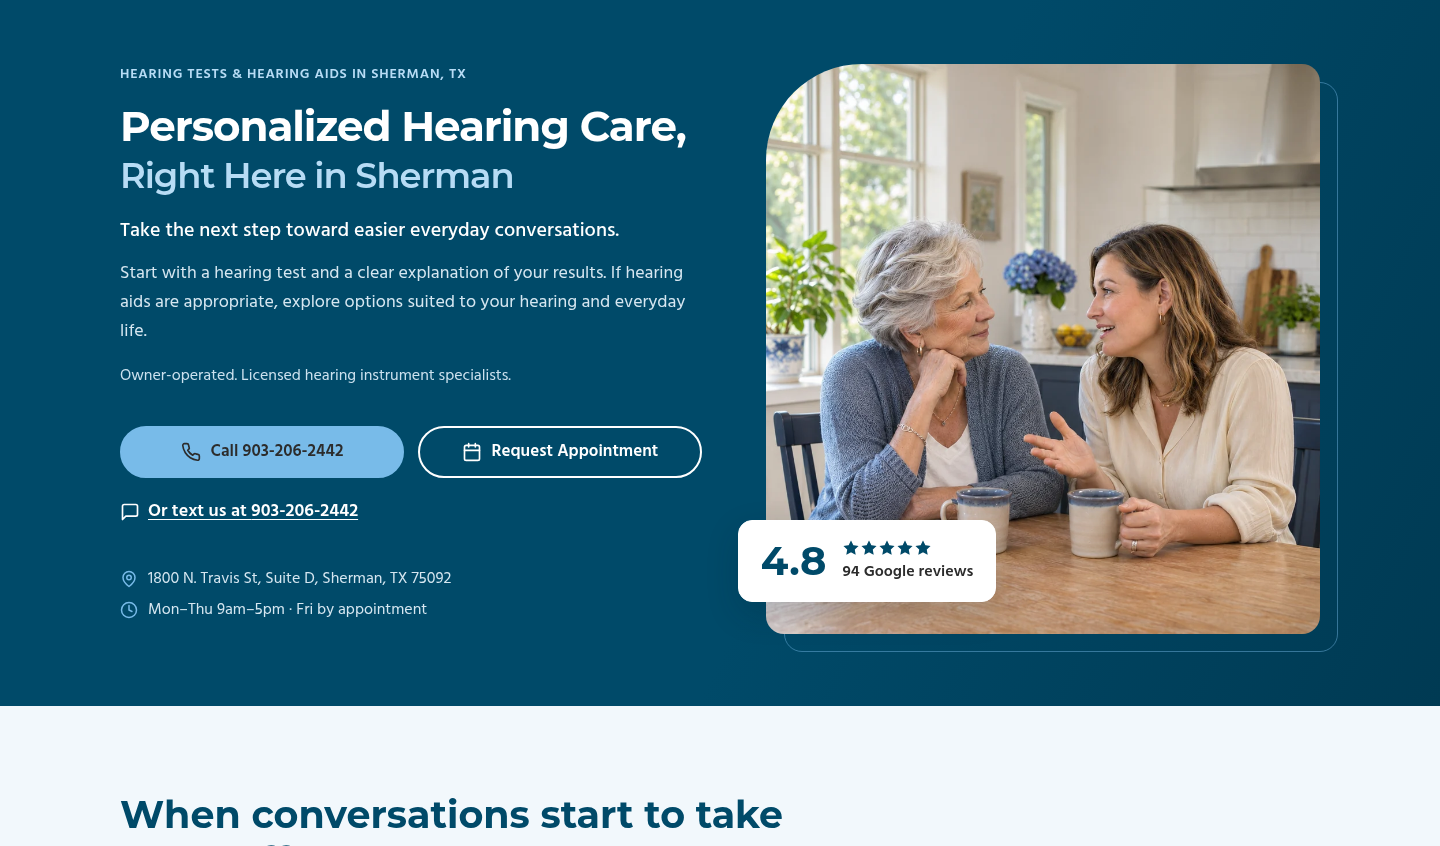
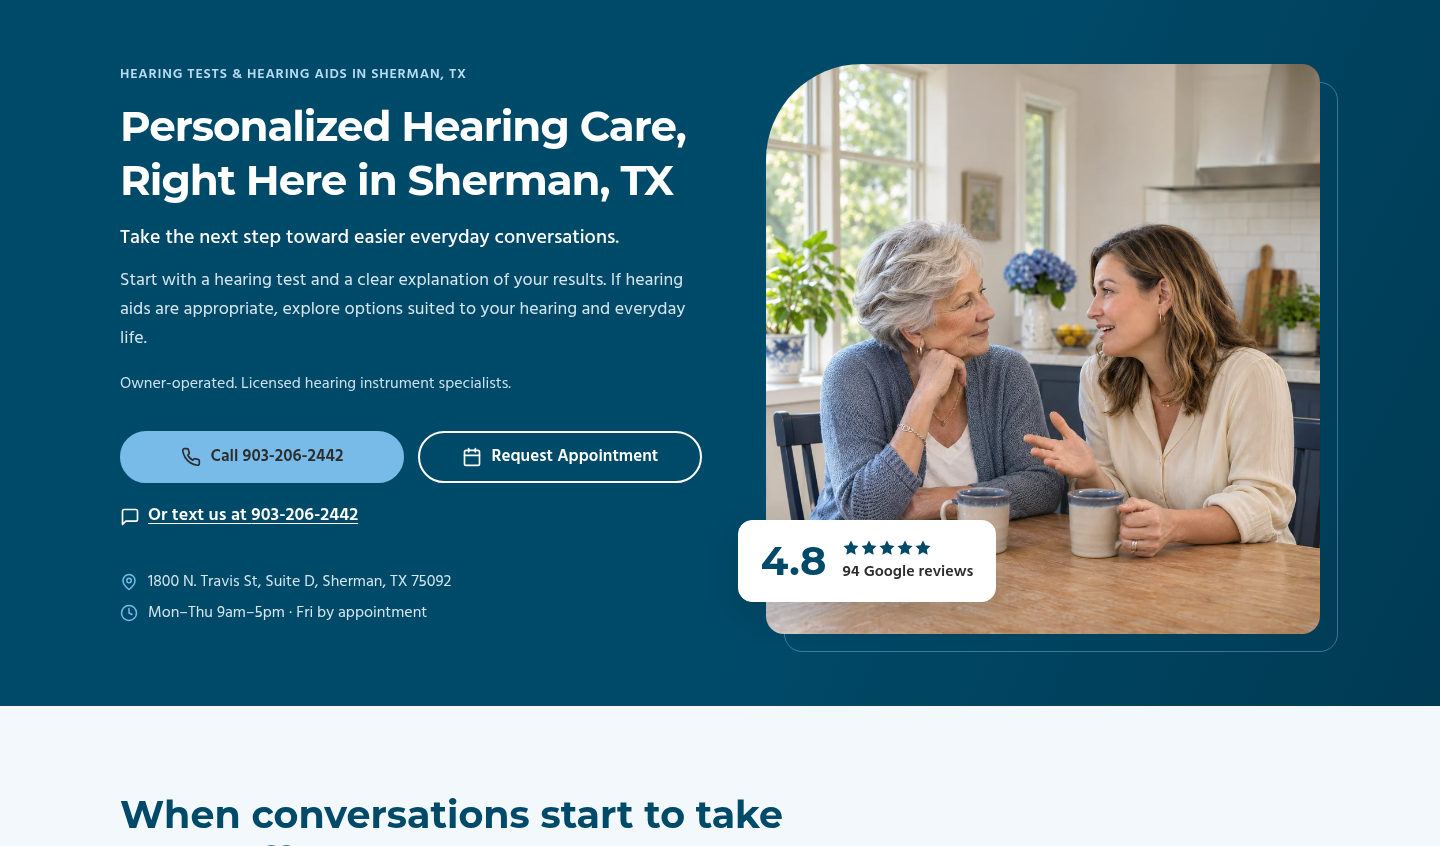
Unify headline styling and add Sherman TX location

diff --git a/index.html b/index.html
@@ -177,7 +177,7 @@ a:hover{ color:var(--hc-navy); }
 .hc-hero--split h1{ margin-top:18px; color:var(--hc-white); font-size:clamp(2rem,3vw,2.625rem); line-height:1.1; letter-spacing:-.025em; text-wrap:balance; }
 .hc-hero--split h1 > span{ display:block; }
 .hc-hero--split .hc-hero__headline-phrase{ white-space:nowrap; }
-.hc-hero--split .hc-hero__headline-local{ margin-top:8px; color:#b7dcf5; font-size:.84em; font-weight:600; }
+.hc-hero--split .hc-hero__headline-local{ margin-top:8px; color:inherit; font-size:inherit; font-weight:inherit; }
 .hc-hero__lead{ margin-top:14px; font-size:1.125rem; line-height:1.6; color:#d6e7f1; }
 .hc-hero__benefit{ margin-top:20px; font-size:1.25rem; line-height:1.5; font-weight:500; color:var(--hc-white); }
 .hc-hero__trust{ margin-top:18px; font-size:1rem; line-height:1.5; color:#cce2ef; }
@@ -518,7 +518,7 @@ a:hover{ color:var(--hc-navy); }
   <div class="hc-wrap hc-hero__grid">
     <div class="hc-hero__text">
       <p class="hc-hero__eyebrow">Hearing tests &amp; hearing aids in Sherman, TX</p>
-      <h1 id="hero-title"><span><span class="hc-hero__headline-phrase">Personalized Hearing</span> Care,</span> <span class="hc-hero__headline-local">Right Here in Sherman</span></h1>
+      <h1 id="hero-title"><span><span class="hc-hero__headline-phrase">Personalized Hearing</span> Care,</span> <span class="hc-hero__headline-local">Right Here in Sherman,&nbsp;TX</span></h1>
       <p class="hc-hero__benefit">Take the next step toward easier everyday conversations.</p>
       <p class="hc-hero__lead">Start with a hearing test and a clear explanation of your results. If hearing aids are appropriate, explore options suited to your hearing and everyday life.</p>
       <p class="hc-hero__trust">Owner-operated. Licensed hearing instrument specialists.</p>

diff --git a/review/hero-review.html b/review/hero-review.html
@@ -177,7 +177,7 @@ a:hover{ color:var(--hc-navy); }
 .hc-hero--split h1{ margin-top:18px; color:var(--hc-white); font-size:clamp(2rem,3vw,2.625rem); line-height:1.1; letter-spacing:-.025em; text-wrap:balance; }
 .hc-hero--split h1 > span{ display:block; }
 .hc-hero--split .hc-hero__headline-phrase{ white-space:nowrap; }
-.hc-hero--split .hc-hero__headline-local{ margin-top:8px; color:#b7dcf5; font-size:.84em; font-weight:600; }
+.hc-hero--split .hc-hero__headline-local{ margin-top:8px; color:inherit; font-size:inherit; font-weight:inherit; }
 .hc-hero__lead{ margin-top:14px; font-size:1.125rem; line-height:1.6; color:#d6e7f1; }
 .hc-hero__benefit{ margin-top:20px; font-size:1.25rem; line-height:1.5; font-weight:500; color:var(--hc-white); }
 .hc-hero__trust{ margin-top:18px; font-size:1rem; line-height:1.5; color:#cce2ef; }
@@ -518,7 +518,7 @@ a:hover{ color:var(--hc-navy); }
   <div class="hc-wrap hc-hero__grid">
     <div class="hc-hero__text">
       <p class="hc-hero__eyebrow">Hearing tests &amp; hearing aids in Sherman, TX</p>
-      <h1 id="hero-title"><span><span class="hc-hero__headline-phrase">Personalized Hearing</span> Care,</span> <span class="hc-hero__headline-local">Right Here in Sherman</span></h1>
+      <h1 id="hero-title"><span><span class="hc-hero__headline-phrase">Personalized Hearing</span> Care,</span> <span class="hc-hero__headline-local">Right Here in Sherman,&nbsp;TX</span></h1>
       <p class="hc-hero__benefit">Take the next step toward easier everyday conversations.</p>
       <p class="hc-hero__lead">Start with a hearing test and a clear explanation of your results. If hearing aids are appropriate, explore options suited to your hearing and everyday life.</p>
       <p class="hc-hero__trust">Owner-operated. Licensed hearing instrument specialists.</p>

diff --git a/CONTENT_DIRECTION.md b/CONTENT_DIRECTION.md
@@ -153,3 +153,7 @@ Check each major claim against RESEARCH.md source IDs; flag missing support rath
 ## Approved hierarchy and button refinement
 
 The user requested improved visual hierarchy, removal of the break after “Personalized,” and button alignment fixes. Keep “Personalized Hearing” together, allow the remaining headline to wrap responsively, and make the local phrase smaller/lighter than the primary message. Place the existing conversation benefit before the longer test-first explanation, preserving all approved wording. Use equal-width/equal-height Hero action columns on desktop, a single column on mobile, and consistent centered icon/label groups in Hero/header buttons. These refinements remain pending rendered approval; no section is locked. Preserve all destinations and integration hooks.
+
+## Subsequent headline correction
+
+User requested uniform color and font size throughout the entire headline and TX after Sherman. The current H1 is “Personalized Hearing Care, Right Here in Sherman, TX.” Both lines inherit the same white color, responsive font size and weight; the earlier smaller/lighter location treatment is superseded. Keep Sherman and TX together when wrapping. Other layout, copy and actions remain unchanged. Pending rendered approval.

diff --git a/DESIGN_SYSTEM.md b/DESIGN_SYSTEM.md
@@ -169,3 +169,7 @@ During Step 4/5, inspect actual rendering rather than relying on code or open po
 ## Approved hierarchy and button refinement
 
 The user requested improved visual hierarchy, removal of the break after “Personalized,” and button alignment fixes. Keep “Personalized Hearing” together, allow the remaining headline to wrap responsively, and make the local phrase smaller/lighter than the primary message. Place the existing conversation benefit before the longer test-first explanation, preserving all approved wording. Use equal-width/equal-height Hero action columns on desktop, a single column on mobile, and consistent centered icon/label groups in Hero/header buttons. These refinements remain pending rendered approval; no section is locked. Preserve all destinations and integration hooks.
+
+## Subsequent headline correction
+
+User requested uniform color and font size throughout the entire headline and TX after Sherman. The current H1 is “Personalized Hearing Care, Right Here in Sherman, TX.” Both lines inherit the same white color, responsive font size and weight; the earlier smaller/lighter location treatment is superseded. Keep Sherman and TX together when wrapping. Other layout, copy and actions remain unchanged. Pending rendered approval.

diff --git a/PAGE_STRATEGY.md b/PAGE_STRATEGY.md
@@ -190,3 +190,7 @@ These documents guide the first draft; they do not authorize building or publica
 ## Approved hierarchy and button refinement
 
 The user requested improved visual hierarchy, removal of the break after “Personalized,” and button alignment fixes. Keep “Personalized Hearing” together, allow the remaining headline to wrap responsively, and make the local phrase smaller/lighter than the primary message. Place the existing conversation benefit before the longer test-first explanation, preserving all approved wording. Use equal-width/equal-height Hero action columns on desktop, a single column on mobile, and consistent centered icon/label groups in Hero/header buttons. These refinements remain pending rendered approval; no section is locked. Preserve all destinations and integration hooks.
+
+## Subsequent headline correction
+
+User requested uniform color and font size throughout the entire headline and TX after Sherman. The current H1 is “Personalized Hearing Care, Right Here in Sherman, TX.” Both lines inherit the same white color, responsive font size and weight; the earlier smaller/lighter location treatment is superseded. Keep Sherman and TX together when wrapping. Other layout, copy and actions remain unchanged. Pending rendered approval.

diff --git a/review/HERO_REVIEW.md b/review/HERO_REVIEW.md
@@ -50,3 +50,7 @@ Ask the user to approve the rendered Hero, request adjustments, or try another d
 ## Subsequent hierarchy refinement
 
 User requested removal of the break after Personalized, improved hierarchy and button alignment. The primary phrase now stays together; desktop sizing accommodates the full primary headline when space allows. Local emphasis is subordinate; the existing conversation benefit precedes the detailed test-first explanation. Hero action buttons use matching grid columns and equal height, with consistent icon/label centering in Hero/header controls. Copy, evidence, destinations and integration scripts are preserved. Latest screenshots and portable HTML reflect this refinement. Still awaiting rendered approval.
+
+## Latest headline correction
+
+The user requested one uniform headline color and font size, plus TX after Sherman. The current headline uses the same white, responsive size and weight throughout, reading “Personalized Hearing Care, Right Here in Sherman, TX.” Earlier notes about smaller/lighter location text are superseded. Seven-width Hero checks passed after this correction.
